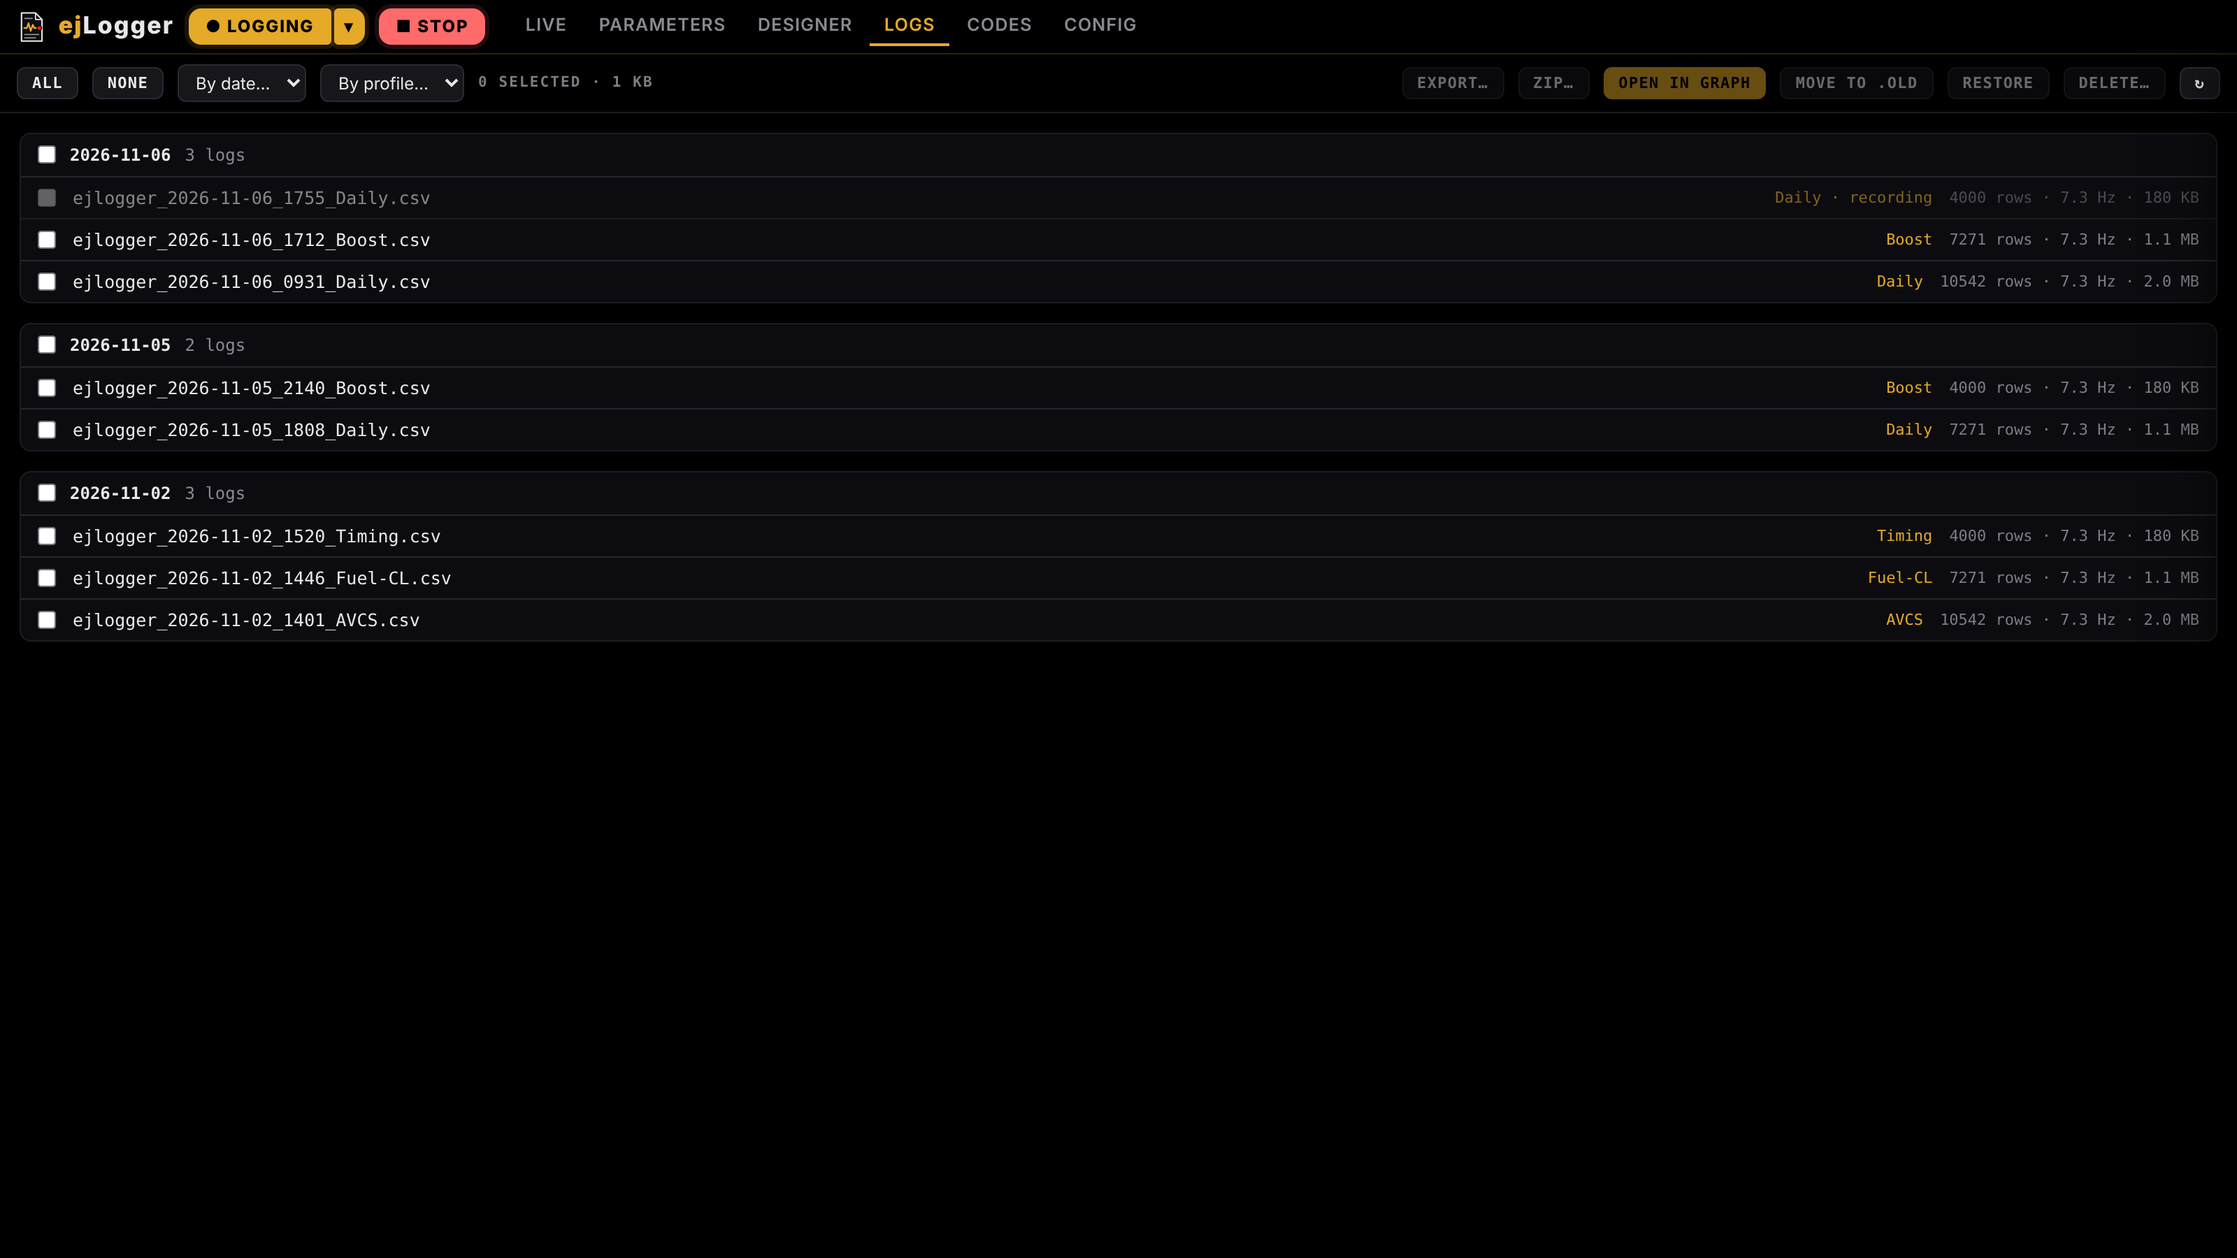
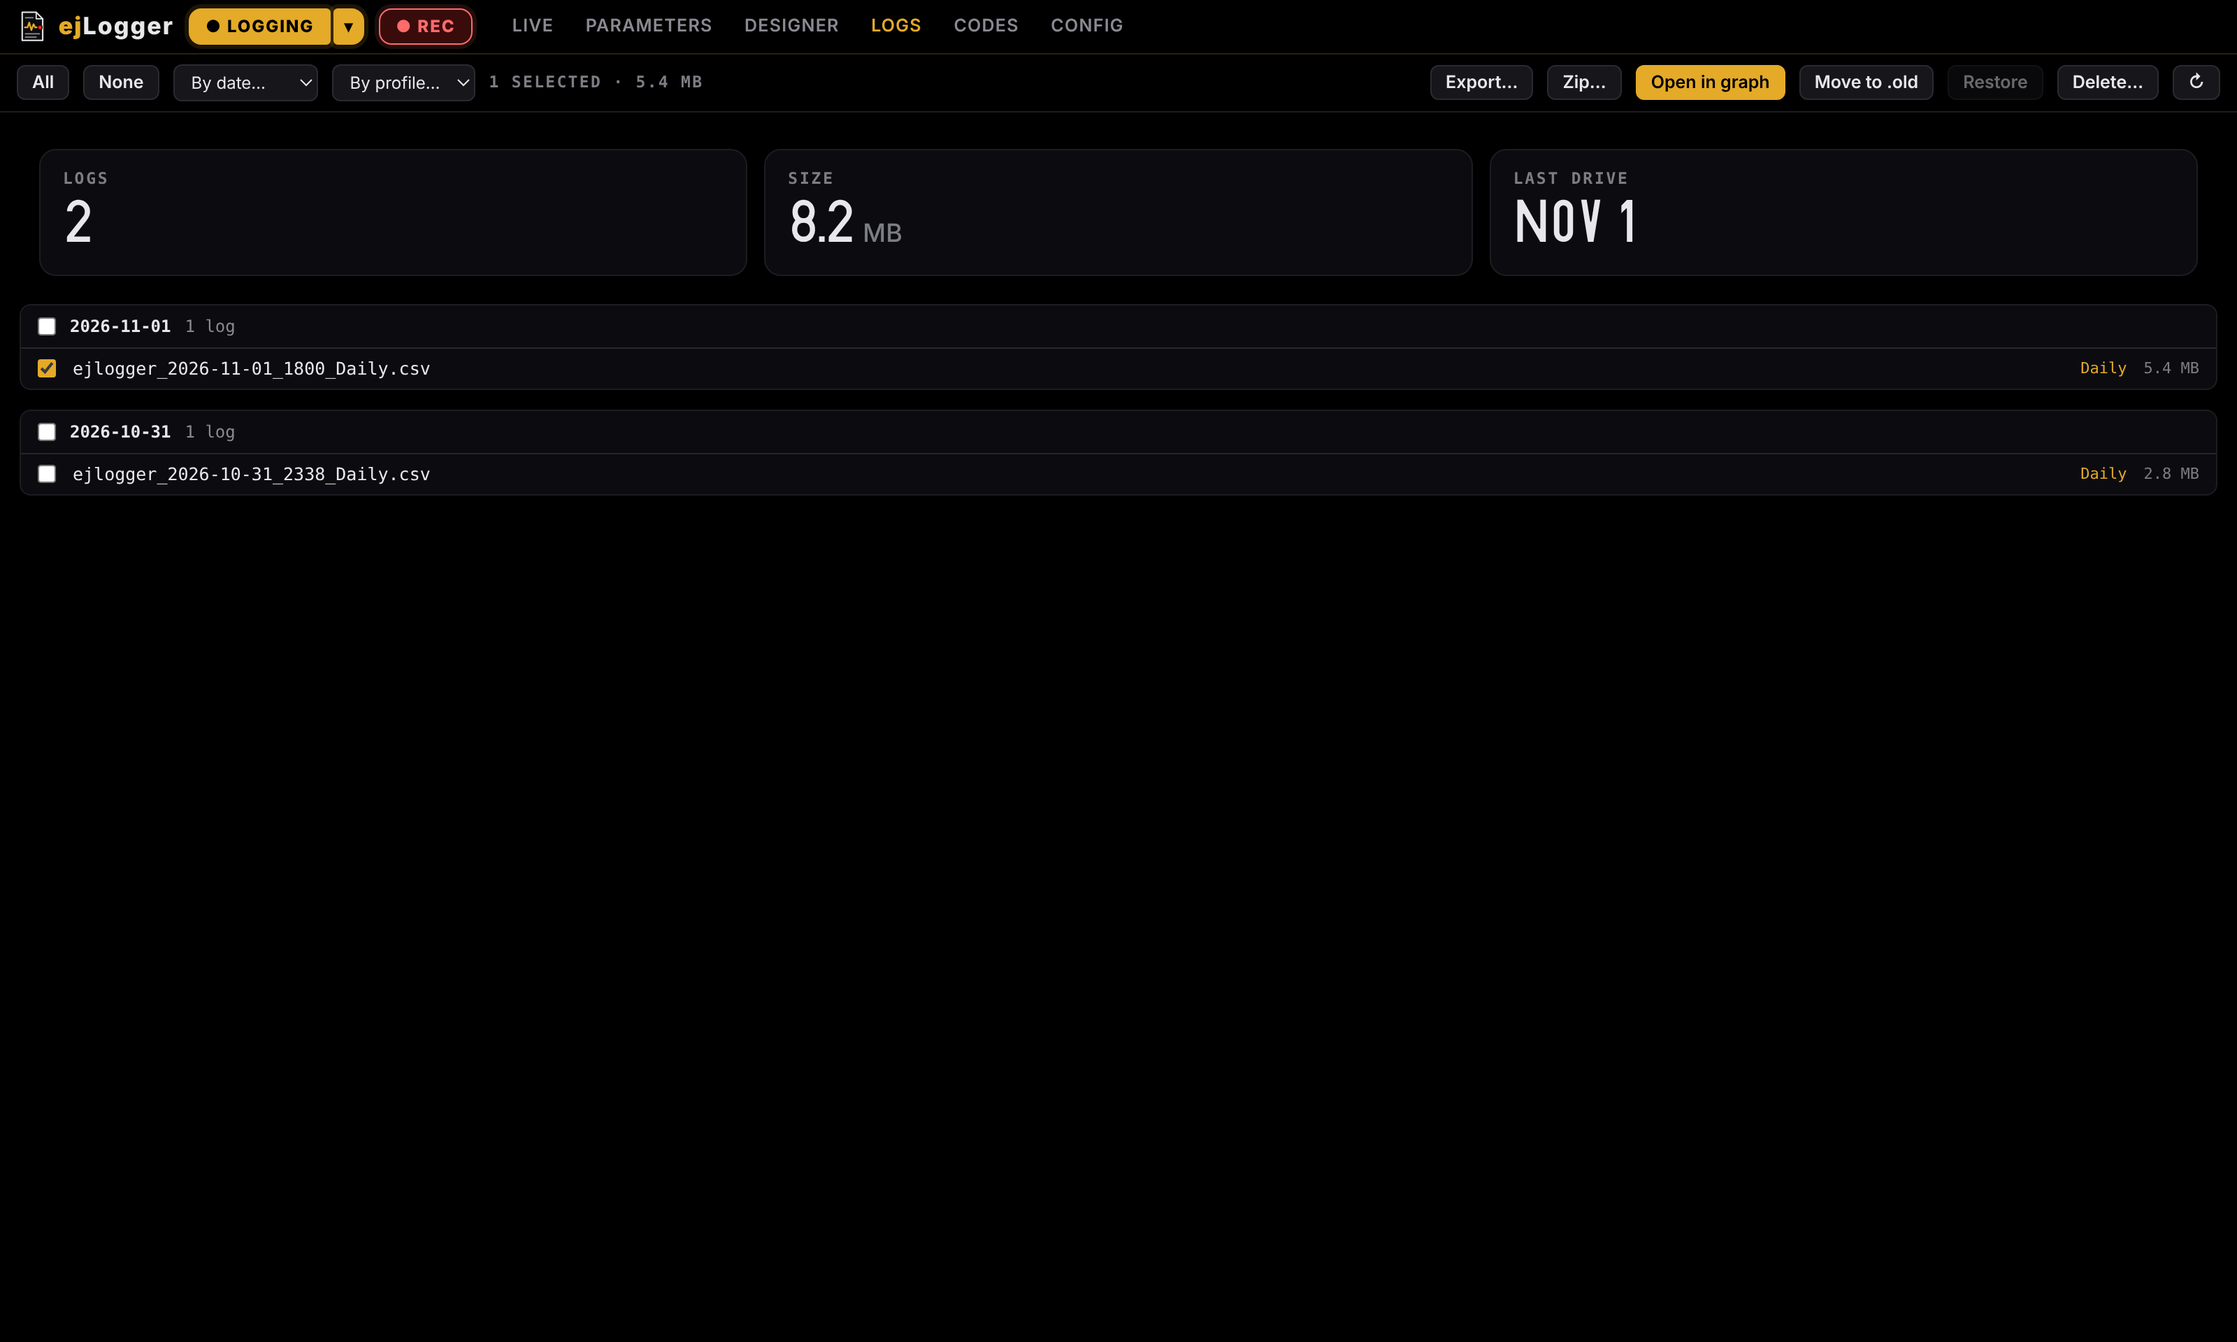
ejLogger: Replay a log (testing port) streams a recorded CSV into the cluster; README ejLogger screenshots from a real drive
Claude-Session: https://claude.ai/code/session_01LKNSoVZS37mm6dVAs4Fe8n

diff --git a/ejLogger/engine/engine.js b/ejLogger/engine/engine.js
@@ -19,7 +19,7 @@ const log = text => post({ t: 'log', text: String(text) });
 process.on('uncaughtException', e => post({ t: 'error', text: 'engine: ' + (e && e.stack || e) }));
 process.on('unhandledRejection', e => post({ t: 'error', text: 'engine: ' + (e && e.stack || e) }));
 
-const MOCK = 'MOCK';
+const MOCK = 'MOCK', REPLAY = 'REPLAY';
 let cfg = { appVersion: '', profile: '', defPath: '', ecuPort: '', wbType: 'none', wbPort: '', wbUnits: 'AFR Gasoline', logDir: '', fastPoll: true, logfileNameText: '', locale: 'en_CA' };
 let xml = null, def = null, mod = null, init = null, qm = null, fh = null, wb = null, mock = null, state = 'idle';
 let sel = []; // [{id, units}] in registration (CSV column) order
@@ -132,6 +132,7 @@ async function openPort(name, props) {
 async function connect() {
   if (qm && qm.isRunning()) return;
   if (!cfg.ecuPort) { post({ t: 'error', text: 'Choose the ECU port first (☰ → Connection).' }); return; }
+  if (cfg.ecuPort === REPLAY) { startReplay(); return; }
   init = null; if (!loadDef()) return;
   if (!cfg.logDir) cfg.logDir = path.join(require('os').homedir(), 'Documents', 'ejStudio', 'logs');
   fh = newFileHandler(); firstFrame = false; frames = [];
@@ -146,7 +147,7 @@ async function connect() {
   qm.run().then(() => { if (mock) { mock.stop(); mock = null; } setState('idle', 'Disconnected'); });
 }
 function onFrame(r) {
-  if (!firstFrame) { firstFrame = true; setState('logging', 'ECU ' + (init ? init.ecuId : '')); setTimeout(dtcScan, 1500); }
+  if (!firstFrame) { firstFrame = true; if (rp) setState('logging', 'Replay · ' + path.basename(rp.file)); else { setState('logging', 'ECU ' + (init ? init.ecuId : '')); setTimeout(dtcScan, 1500); } }
   if (fh && fh.isStarted()) recRows++;
   try { fh && fh.handleDataUpdate(r); } catch (e) { post({ t: 'error', text: 'CSV: ' + e.message }); stopRec(); }
   const v = {}, f = {};
@@ -179,7 +180,29 @@ async function ecuReset() { if (!qm || !qm.isRunning()) return post({ t: 'reset'
       return { ok, tx: req.toString('hex'), rx: resp.toString('hex') }; });
     post(Object.assign({ t: 'reset' }, r, r.ok ? {} : { error: r.rx ? 'The ECU did not confirm the reset' : 'No reply to the reset' })); }
   catch (e) { post({ t: 'reset', ok: false, error: e.message }); } }
-function disconnect() { stopRec('disconnected'); if (qm) qm.stop(); stopWb(); }
+function disconnect() { stopRec('disconnected'); if (rp) { stopReplay(); setState('idle', ''); return; } if (qm) qm.stop(); stopWb(); }
+// ── replay: plays a recorded CSV into the cluster as if the ECU sent it (desk testing, Designer, screenshots) ──
+let rp = null;
+function stopReplay() { if (rp) { clearTimeout(rp.t); rp = null; } }
+function startReplay() {
+  const f = cfg.replayFile; if (!f || !fs.existsSync(f)) { post({ t: 'error', text: 'Choose a log to replay (Config → ECU).' }); return; }
+  if (!loadDef()) return;
+  let ls; try { ls = fs.readFileSync(f, 'utf8').split(/\r?\n/).filter(l => l.trim()); } catch (e) { post({ t: 'error', text: 'Replay: ' + e.message }); return; }
+  if (ls.length < 3) { post({ t: 'error', text: 'Replay: the log has no rows' }); return; }
+  const H = ls[0].split(',').map(h => h.trim().replace(/^"|"$/g, '')), ti = H.findIndex(h => /^time/i.test(h)), ms = ti >= 0 && /ms|msec/i.test(H[ti]) ? 1 : 1000;
+  const rows = ls.slice(1).map(l => l.split(',')), T = rows.map((r, i) => ti >= 0 ? parseFloat(r[ti]) * ms : i * 50);
+  const norm = s => String(s).toLowerCase().replace(/\s*\([^()]*\)\s*$/, '').replace(/[^a-z0-9]+/g, ' ').trim(), hn = H.map(norm);
+  stopReplay(); firstFrame = false; frames = []; fh = null; init = null;
+  rp = { file: f, rows, T, i: Math.max(0, Math.min(rows.length - 1, Math.floor(rows.length * (+cfg.replayAt || 0)))), ap: null, pairs: [] };
+  applySelection(); setState('settling', 'Replay · ' + path.basename(f));
+  const tick = () => { if (!rp) return;
+    if (rp.ap !== applied) { rp.ap = applied; rp.pairs = applied.map(it => [it, hn.indexOf(norm(it.name))]).filter(p => p[1] >= 0); }
+    const row = rp.rows[rp.i], values = [];
+    for (const [it, j] of rp.pairs) { const v = parseFloat(row[j]); if (Number.isFinite(v)) values.push([it, v]); }
+    if (values.length) onFrame({ timestamp: Date.now(), values });
+    const n = (rp.i + 1) % rp.rows.length, dt = n ? rp.T[n] - rp.T[rp.i] : 400; rp.i = n;
+    rp.t = setTimeout(tick, Math.max(10, Math.min(1000, Number.isFinite(dt) ? dt : 50))); };
+  tick(); }
 function startWb() {
   stopWb(); if (!cfg.wbType || cfg.wbType === 'none' || !cfg.wbPort) { post({ t: 'wb', state: 'off' }); return; }
   wb = new WB.Wideband(cfg.wbType, cfg.wbPort, cfg.wbUnits, { openRaw: SER.openRaw, onState: s => post(Object.assign({ t: 'wb' }, s)) });
@@ -208,7 +231,7 @@ onMsg(async m => {
         break; }
       case 'ports': {
         let list = []; try { list = await SER.listPorts(); } catch (e) { post({ t: 'error', text: 'Port scan: ' + e.message }); }
-        if (m.mock !== false) list.push({ path: MOCK, name: 'Simulated ECU (testing)' });
+        if (m.mock !== false) { list.push({ path: MOCK, name: 'Simulated ECU (testing)' }); list.push({ path: REPLAY, name: 'Replay a log (testing)' }); }
         post({ t: 'ports', list, serial: SER.available() }); break; }
       case 'params': if (!def) loadDef(); if (def) sendParams(); break;
       case 'select': sel = (m.list || []).filter(s => s && s.id); applySelection(); break;

diff --git a/src/08_ejlogger.js b/src/08_ejlogger.js
@@ -359,7 +359,7 @@ body.ejl-pass #ejl .edtop,body.ejl-pass #ejl .csplit,body.ejl-pass #ejl .tabs,bo
   const SECS=[
     ['THIS PC',[['Car mode',()=>`<div class="knob"><label for="ejl-carmode">Car mode</label><span></span><input type="checkbox" id="ejl-carmode" ${S.cfg.role==='car'?'checked':''} style="justify-self:end"></div>${(S.cfg.role==='car')!==CAR?'<div class="knob"><label>Takes effect on the next launch</label><span></span><button class="xb acc" data-a="relaunch">Restart now</button></div>':''}`]]],
     ['CONNECTION',[['ECU',()=>`<div class="knob"><label>ECU port (Tactrix / K-Line)</label>${pSel('ecuPort')}</div>
-        <div class="knob"><label>Logger definition</label><span class="path" title="${esc(S.cfg.defPath||'')}">${S.cfg.defPath?(/[\\/]ejLogger[\\/]defaults[\\/]/.test(S.cfg.defPath)?'Built-in · '+esc(S.cfg.defPath.split(/[\\/]/).pop()):esc(S.cfg.defPath.split(/[\\/]/).pop())):'None chosen'}</span><button class="xb" data-a="def">Choose…</button></div>
+        ${S.cfg.ecuPort==='REPLAY'?`<div class="knob"><label>Log to replay</label><span class="path" title="${esc(S.cfg.replayFile||'')}">${S.cfg.replayFile?esc(S.cfg.replayFile.split(/[\\/]/).pop()):'None chosen'}</span><button class="xb" data-a="replay">Choose…</button></div>`:''}<div class="knob"><label>Logger definition</label><span class="path" title="${esc(S.cfg.defPath||'')}">${S.cfg.defPath?(/[\\/]ejLogger[\\/]defaults[\\/]/.test(S.cfg.defPath)?'Built-in · '+esc(S.cfg.defPath.split(/[\\/]/).pop()):esc(S.cfg.defPath.split(/[\\/]/).pop())):'None chosen'}</span><button class="xb" data-a="def">Choose…</button></div>
         ${tick('autoConnect','Connect automatically when ejLogger opens')}${tick('fastPoll','Fast poll (continuous A8 stream)','Continuous streaming from the ECU. Leave on.')}`],
       ['Wideband',()=>`<div class="knob"><label>Wideband sensor</label><select data-c="wbType"><option value="none">None</option><option value="aem" ${S.cfg.wbType==='aem'?'selected':''}>AEM UEGO</option><option value="innovate" ${S.cfg.wbType==='innovate'?'selected':''}>Innovate LC-2 (MTS)</option><option value="plx" ${S.cfg.wbType==='plx'?'selected':''}>PLX</option></select><span></span></div>
         <div class="knob ${S.cfg.wbType==='none'?'soon':''}"><label>Wideband port</label>${pSel('wbPort',S.cfg.wbType==='none')}</div>`],
@@ -421,7 +421,7 @@ body.ejl-pass #ejl .edtop,body.ejl-pass #ejl .csplit,body.ejl-pass #ejl .tabs,bo
     if(a==='relaunch'&&API&&API.relaunch) API.relaunch().then(ok=>{ if(ok===false) toast('Stop the recording first'); });
     if(a==='stnow'&&API) API.storageNow().then(()=>toast('Log storage applied'));
     if(a==='pname'){ S.pren=S.pren===b.dataset.p?null:b.dataset.p; S.dirty=true; paintAll(); return; } if(a==='rescan') rescan(); if(a==='open'&&API) API.openDir();
-    if(a==='def'&&API) API.pickDef().then(c=>{ S.cfg=c; S.dirty=true; paintAll(); });
+    if(a==='def'&&API) API.pickDef().then(c=>{ S.cfg=c; S.dirty=true; paintAll(); }); else if(a==='replay'&&API&&API.pickReplay) API.pickReplay().then(c=>{ S.cfg=c; S.dirty=true; paintAll(); });
     if(a==='dir'&&API) API.pickDir().then(c=>{ S.cfg=c; S.dirty=true; paintAll(); }); }
   function setChange(e){ const d=e.target.dataset; if(d.pn!=null){ const N=Object.assign({},S.cfg.portNames||{}), v=e.target.value.trim(); if(v) N[d.pn]=v; else delete N[d.pn]; S.pren=null; setCfg({portNames:N}); return; } if(e.target.id==='ejl-wadd'&&e.target.value){ warnSet(e.target.value,'0, 0, 0'); return; }
     if(e.target.classList.contains('wn')){ const k=d.wk, r=warnRows().rows.find(x=>x.key===k), cur=(r&&r.raw&&r.raw.trim().toLowerCase()!=='off'?r.raw.split(',').map(x=>x.trim()):['','','']); while(cur.length<3) cur.push(''); const v=e.target.value.trim(); if(v!==''&&!Number.isFinite(+v)){ toast('Enter a number'); return; } cur[+d.wi]=v; if(cur.slice(0,3).every(x=>x!==''&&Number.isFinite(+x))) warnSet(k,cur.join(', ')); return; } if(e.target.id==='ejl-wsc'){ S.warnScope=e.target.value; S.dirty=true; paintAll(); return; } if(e.target.id==='ejl-phon'){ setCfg({phone:e.target.checked}); return; } if(e.target.id==='ejl-pass'){ const v=e.target.value.trim(); if(!/^\d{4}$/.test(v)){ toast('The passcode is four digits'); return; } setProp('network','tuner.passcode',v); toast('Passcode changed; phones need to unlock again'); return; } if(e.target.id==='ejl-usbl'){ setCfg({usbLabel:e.target.value.trim()}); return; } if(d.st){ setCfg({storage:Object.assign({},S.cfg.storage||{},{[d.st]:+e.target.value})}); return; } if(e.target.id==='ejl-carmode'){ setCfg({role:e.target.checked?'car':'laptop'}); return; }

diff --git a/preload.js b/preload.js
@@ -2,5 +2,5 @@ const {contextBridge,ipcRenderer,webUtils}=require('electron');
 contextBridge.exposeInMainWorld('rrlab',{ desktop:true, confirmSync:m=>ipcRenderer.sendSync('confirm-sync',m), showDl:n=>ipcRenderer.invoke('dl:show',n), askSync:m=>ipcRenderer.sendSync('ask-sync',m), proj:{ save:o=>ipcRenderer.invoke('proj:save',o), open:()=>ipcRenderer.invoke('proj:open'), read:p=>ipcRenderer.invoke('proj:read',p) },
   getWatch:()=>ipcRenderer.invoke('watch:get'), pickFolder:()=>ipcRenderer.invoke('watch:pick'), setAuto:v=>ipcRenderer.invoke('watch:auto',v),
   stopWatch:()=>ipcRenderer.invoke('watch:off'), newest:()=>ipcRenderer.invoke('watch:newest'), copy:t=>ipcRenderer.invoke('copy',t), capture:r=>ipcRenderer.invoke('capture',r), info:()=>ipcRenderer.invoke('info'), openData:()=>ipcRenderer.invoke('openData'), readFiles:p=>ipcRenderer.invoke('readFiles',p), pathFor:f=>{ try{ return webUtils.getPathForFile(f)||''; }catch(_){ return ''; } }, openUrl:u=>ipcRenderer.invoke('openUrl',u), log:t=>ipcRenderer.invoke('log',t), readLog:()=>ipcRenderer.invoke('readLog'), paste:()=>ipcRenderer.invoke('paste'), zoom:f=>ipcRenderer.invoke('zoom',f), backup:(c,f,t)=>ipcRenderer.invoke('backup',c,f,t),  saveReport:(n,d)=>ipcRenderer.invoke('report:save',n,d), openReports:n=>ipcRenderer.invoke('report:open',n),
-  ejl:{ send:m=>ipcRenderer.invoke('ejl:send',m), readLogs:n=>ipcRenderer.invoke('ejl:readLogs',n), tidyCluster:()=>ipcRenderer.invoke('ejl:tidyCluster'), usbScan:l=>ipcRenderer.invoke('ejl:usbScan',l), usbTune:(p,c)=>ipcRenderer.invoke('ejl:usbTune',p,c), usbUpdate:(p,g)=>ipcRenderer.invoke('ejl:usbUpdate',p,g), cfg:()=>ipcRenderer.invoke('ejl:cfg'), set:(p,o)=>ipcRenderer.invoke('ejl:set',p,o), pickDef:()=>ipcRenderer.invoke('ejl:pickDef'), pickDir:()=>ipcRenderer.invoke('ejl:pickDir'), openDir:()=>ipcRenderer.invoke('ejl:openDir'), openLast:()=>ipcRenderer.invoke('ejl:openLast'), state:()=>ipcRenderer.invoke('ejl:state'), relaunch:()=>ipcRenderer.invoke('ejl:relaunch'), logs:()=>ipcRenderer.invoke('ejl:logs'), logsDo:(a,n,o)=>ipcRenderer.invoke('ejl:logsDo',a,n,o), usbSync:l=>ipcRenderer.invoke('ejl:usbSync',l), storageNow:()=>ipcRenderer.invoke('ejl:storageNow'), cluster:()=>ipcRenderer.invoke('ejl:cluster'), importCluster:()=>ipcRenderer.invoke('ejl:importCluster'), openCluster:()=>ipcRenderer.invoke('ejl:openCluster'), writeProp:(f,p,o)=>ipcRenderer.invoke('ejl:writeProp',f,p,o), saveProfile:(n,l)=>ipcRenderer.invoke('ejl:saveProfile',n,l), profileOp:(op,n,t)=>ipcRenderer.invoke('ejl:profileOp',op,n,t), backup:()=>ipcRenderer.invoke('ejl:backup'), net:()=>ipcRenderer.invoke('ejl:net'), on:cb=>ipcRenderer.on('ejl',(e,d)=>cb(d)) },
+  ejl:{ send:m=>ipcRenderer.invoke('ejl:send',m), readLogs:n=>ipcRenderer.invoke('ejl:readLogs',n), tidyCluster:()=>ipcRenderer.invoke('ejl:tidyCluster'), usbScan:l=>ipcRenderer.invoke('ejl:usbScan',l), usbTune:(p,c)=>ipcRenderer.invoke('ejl:usbTune',p,c), usbUpdate:(p,g)=>ipcRenderer.invoke('ejl:usbUpdate',p,g), cfg:()=>ipcRenderer.invoke('ejl:cfg'), set:(p,o)=>ipcRenderer.invoke('ejl:set',p,o), pickDef:()=>ipcRenderer.invoke('ejl:pickDef'), pickReplay:()=>ipcRenderer.invoke('ejl:pickReplay'), pickDir:()=>ipcRenderer.invoke('ejl:pickDir'), openDir:()=>ipcRenderer.invoke('ejl:openDir'), openLast:()=>ipcRenderer.invoke('ejl:openLast'), state:()=>ipcRenderer.invoke('ejl:state'), relaunch:()=>ipcRenderer.invoke('ejl:relaunch'), logs:()=>ipcRenderer.invoke('ejl:logs'), logsDo:(a,n,o)=>ipcRenderer.invoke('ejl:logsDo',a,n,o), usbSync:l=>ipcRenderer.invoke('ejl:usbSync',l), storageNow:()=>ipcRenderer.invoke('ejl:storageNow'), cluster:()=>ipcRenderer.invoke('ejl:cluster'), importCluster:()=>ipcRenderer.invoke('ejl:importCluster'), openCluster:()=>ipcRenderer.invoke('ejl:openCluster'), writeProp:(f,p,o)=>ipcRenderer.invoke('ejl:writeProp',f,p,o), saveProfile:(n,l)=>ipcRenderer.invoke('ejl:saveProfile',n,l), profileOp:(op,n,t)=>ipcRenderer.invoke('ejl:profileOp',op,n,t), backup:()=>ipcRenderer.invoke('ejl:backup'), net:()=>ipcRenderer.invoke('ejl:net'), on:cb=>ipcRenderer.on('ejl',(e,d)=>cb(d)) },
   onOpenFiles:cb=>ipcRenderer.on('open-files',(e,d)=>cb(d)), onNewLog:cb=>ipcRenderer.on('newlog',(e,d)=>cb(d)) });

diff --git a/main.js b/main.js
@@ -32,7 +32,7 @@ let ejl={cfg:null,proc:null,rec:false,file:null,state:'idle',quitting:false};
 const BUILTIN_DEF=path.join(__dirname,'ejLogger','defaults','logger_METRIC_EN_v370.xml').replace('app.asar'+path.sep,'app.asar.unpacked'+path.sep);
 function ejlCfg(){ if(!ejl.cfg){ ejl.cfg=Object.assign({},EJL_DEF); try{ Object.assign(ejl.cfg,JSON.parse(fs.readFileSync(EJL_CFGF(),'utf8'))); }catch(_){} if(!ejl.cfg.defPath||!fs.existsSync(ejl.cfg.defPath)) ejl.cfg.defPath=BUILTIN_DEF; if(!ejl.cfg.logDir) ejl.cfg.logDir=path.join(app.getPath('documents'),'ejStudio','logs'); } return ejl.cfg; }
 function ejlSave(){ try{ const f=EJL_CFGF(); fs.writeFileSync(f+'.tmp',JSON.stringify(ejl.cfg,null,1)); fs.renameSync(f+'.tmp',f); }catch(e){ elog('ejl cfg '+e); } }
-const ejlEngineCfg=c=>({appVersion:app.getVersion(),profile:c.profile||'',defPath:c.defPath,ecuPort:c.ecuPort,wbType:c.wbType,wbPort:c.wbPort,wbUnits:c.wbUnits,logDir:c.logDir,fastPoll:c.fastPoll!==false});
+const ejlEngineCfg=c=>({appVersion:app.getVersion(),profile:c.profile||'',defPath:c.defPath,ecuPort:c.ecuPort,wbType:c.wbType,wbPort:c.wbPort,wbUnits:c.wbUnits,logDir:c.logDir,fastPoll:c.fastPoll!==false,replayFile:c.replayFile||'',replayAt:+c.replayAt||0});
 function ejlStart(){
   if(ejl.proc) return ejl.proc;
   const p=utilityProcess.fork(path.join(__dirname,'ejLogger','engine','engine.js'),[],{serviceName:'ejLogger engine',stdio:'pipe'});
@@ -60,6 +60,7 @@ function ejlIpc(){
     try{ const d=path.join(app.getPath('userData'),'ejLogger'); fs.mkdirSync(d,{recursive:true}); const dst=path.join(d,path.basename(r.filePaths[0])); if(path.resolve(dst)!==path.resolve(r.filePaths[0])) fs.copyFileSync(r.filePaths[0],dst); ejlCfg().defPath=dst; }
     catch(err){ elog('pickDef '+err); ejlCfg().defPath=r.filePaths[0]; }
     ejlSave(); ejlPost({t:'config',cfg:ejlEngineCfg(ejlCfg())}); return ejlCfg(); });
+  reg('ejl:pickReplay',async()=>{ const r=await dialog.showOpenDialog(win,{title:'Choose a log to replay',properties:['openFile'],filters:[{name:'CSV log',extensions:['csv']}],defaultPath:ejlCfg().logDir||undefined}); if(r.canceled||!r.filePaths[0]) return ejlCfg(); ejlCfg().replayFile=r.filePaths[0]; ejlSave(); ejlPost({t:'config',cfg:ejlEngineCfg(ejlCfg())}); return ejlCfg(); });
   reg('ejl:pickDir',async()=>{ const c=ejlCfg(); const r=await dialog.showOpenDialog(win,{title:'Choose the ejLogger log folder',properties:['openDirectory','createDirectory'],defaultPath:c.logDir||undefined});
     if(!r.canceled&&r.filePaths[0]){ c.logDir=r.filePaths[0]; ejlSave(); if(ejl.proc) ejl.proc.postMessage({t:'config',cfg:ejlEngineCfg(c)}); } return c; });
   reg('ejl:openDir',()=>{ const d=ejlCfg().logDir; try{ fs.mkdirSync(d,{recursive:true}); }catch(_){} shell.openPath(d); return true; });
